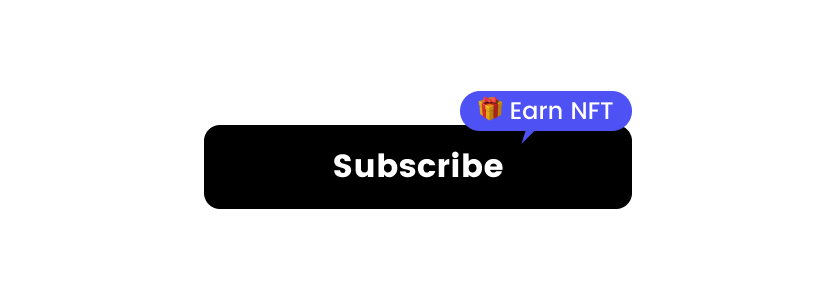
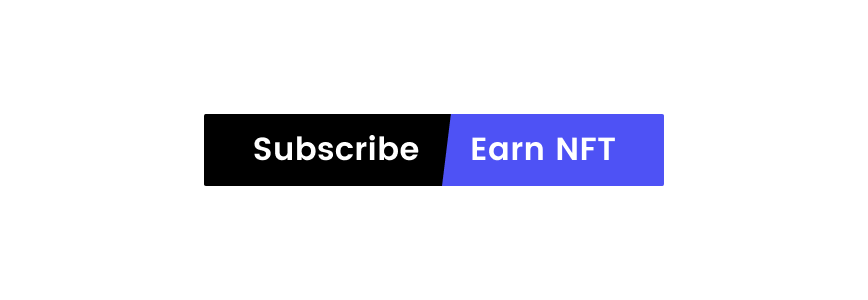
feat: upgrade all subscribe button style

Changed region(s): [[0.2177, 0.3, 0.7775, 0.72]]

diff --git a/apps/app/components/SubscribeProfileBody/index.tsx b/apps/app/components/SubscribeProfileBody/index.tsx
@@ -37,7 +37,7 @@ import { useDidMount, useScreenshot, useToast } from 'hooks'
 import { useInfiniteQuery, useQuery } from 'react-query'
 import { useTranslation } from 'react-i18next'
 import axios from 'axios'
-import { ClusterCommunityResp } from 'models'
+import { ClusterCommunityResp, RewardType } from 'models'
 import {
   copyText,
   isEthAddress,
@@ -397,23 +397,17 @@ export const SubscribeProfileBody: React.FC<SubscribeProfileBodyProps> = ({
             host={APP_URL}
             utmSource={location.host}
             utmCampaign={`s/${address}`}
-            iframeHeight="46px"
-            w="150px"
-            h="28px"
-            variant="unstyled"
-            border="1px solid #000000"
-            fontSize="14px"
+            iframeHeight="34px"
+            w={settings?.reward_type === RewardType.NFT ? '230px' : '150px'}
+            minW="150px"
+            h="34px"
+            fontSize="16px"
+            borderRadius="100px"
             bg="#000"
             color="#fff"
-            borderRadius="100px"
-            display="flex"
-            alignItems="center"
-            justifyContent="center"
             rewardType={settings?.reward_type}
             earnIconStyle={{
-              type: 'blue',
-              left: '62px',
-              top: '-18px',
+              w: '105px',
             }}
           />
         </Box>

diff --git a/packages/ui/src/SubscribeButton/index.tsx b/packages/ui/src/SubscribeButton/index.tsx
@@ -1,4 +1,4 @@
-import { Box, BoxProps, Button, ButtonProps, Center } from '@chakra-ui/react'
+import { Box, BoxProps, Button, ButtonProps } from '@chakra-ui/react'
 import { useMemo, useState } from 'react'
 
 export const SubscribeButton: React.FC<
@@ -57,24 +57,21 @@ export const SubscribeButton: React.FC<
     </Box>
   )
 
-  const ButtonLocal = (
-    <Center>
-      <Button
-        {...buttonProps}
-        isLoading={!isLoaded}
-        display="flex"
-        alignItems="center"
-        justifyContent="center"
-      >
-        Subscribe
-      </Button>
-    </Center>
-  )
-
   return (
     <Box h={buttonProps.h} w={buttonProps.w} position="relative">
       {ButtonRemote}
-      {!isLoaded ? ButtonLocal : null}
+      {!isLoaded ? (
+        <Button
+          {...buttonProps}
+          variant="unstyled"
+          display="flex"
+          alignItems="center"
+          justifyContent="center"
+          pl="0"
+          isLoading
+          _hover={{ _disabled: { bg: buttonProps.bg } }}
+        />
+      ) : null}
     </Box>
   )
 }

diff --git a/apps/app/components/SubscribeButton/index.tsx b/apps/app/components/SubscribeButton/index.tsx
@@ -31,6 +31,7 @@ export const SubscribeButton = () => {
 
   const allowAttr = [
     'w',
+    'minW',
     'h',
     'pl',
     'width',
@@ -96,15 +97,24 @@ export const SubscribeButton = () => {
 
   if (data?.state === SubscribeState.Active) {
     return (
-      <Button variant="unstyled" w="150px" {...buttonStyle} pl="0">
-        Subscribed
-      </Button>
+      <Center>
+        <Button
+          variant="unstyled"
+          {...buttonStyle}
+          pl="0"
+          w={buttonStyle.minW || buttonStyle.w || '150px'}
+          m="0 auto"
+        >
+          Subscribed
+        </Button>
+      </Center>
     )
   }
 
   if (rewardType === RewardType.AIR || isLoading) {
     return (
       <Button
+        variant="unstyled"
         isLoading={isLoading}
         onClick={onClick}
         w="150px"
@@ -122,6 +132,7 @@ export const SubscribeButton = () => {
   return (
     <Button
       onClick={onClick}
+      variant="unstyled"
       w="230px"
       overflow="hidden"
       display="flex"

diff --git a/apps/home/components/Home/dao.tsx b/apps/home/components/Home/dao.tsx
@@ -156,21 +156,18 @@ export const Dao = () => {
                 host={APP_URL}
                 utmSource="https://mail3.me"
                 utmCampaign="mail3.eth"
-                iframeHeight="90px"
-                w="224px"
+                iframeHeight="56px"
+                w="292px"
+                minW="200px"
                 h="56px"
-                border="1px solid #4E4E4E"
                 fontSize="24px"
                 bg="#4E51F4"
                 color="#FFF"
                 borderRadius="20px"
-                display="flex"
-                alignItems="center"
-                justifyContent="center"
                 earnIconStyle={{
-                  type: 'white',
-                  left: '100px',
-                  top: '-32px',
+                  w: '135px',
+                  bg: '#fff',
+                  color: '#4E51F4',
                 }}
               />
             </Box>

diff --git a/apps/home/components/Home/footer.tsx b/apps/home/components/Home/footer.tsx
@@ -230,21 +230,18 @@ export const Footer = () => {
             host={APP_URL}
             utmSource="https://mail3.me"
             utmCampaign="mail3.eth"
-            iframeHeight="90px"
-            w="224px"
+            iframeHeight="56px"
+            w="292px"
+            minW="200px"
             h="56px"
-            border="1px solid #4E4E4E"
             fontSize="24px"
             bg="#4E51F4"
             color="#FFF"
             borderRadius="20px"
-            display="flex"
-            alignItems="center"
-            justifyContent="center"
             earnIconStyle={{
-              type: 'white',
-              left: '100px',
-              top: '-32px',
+              w: '135px',
+              bg: '#fff',
+              color: '#4E51F4',
             }}
           />
         </Flex>

diff --git a/apps/community/src/components/EarnNFTPageComponents/StylePreview.tsx b/apps/community/src/components/EarnNFTPageComponents/StylePreview.tsx
@@ -99,7 +99,7 @@ export const StylePreview: React.FC<StylePreviewProps> = ({
               <img
                 src={`${APP_URL}/images/subscribe-btn-${rewardType}.png`}
                 alt="subscribe"
-                style={{ width: '178px', height: 'auto', margin: 'auto' }}
+                style={{ width: '230px', height: 'auto', margin: 'auto' }}
               />
             </a>
           </Center>
